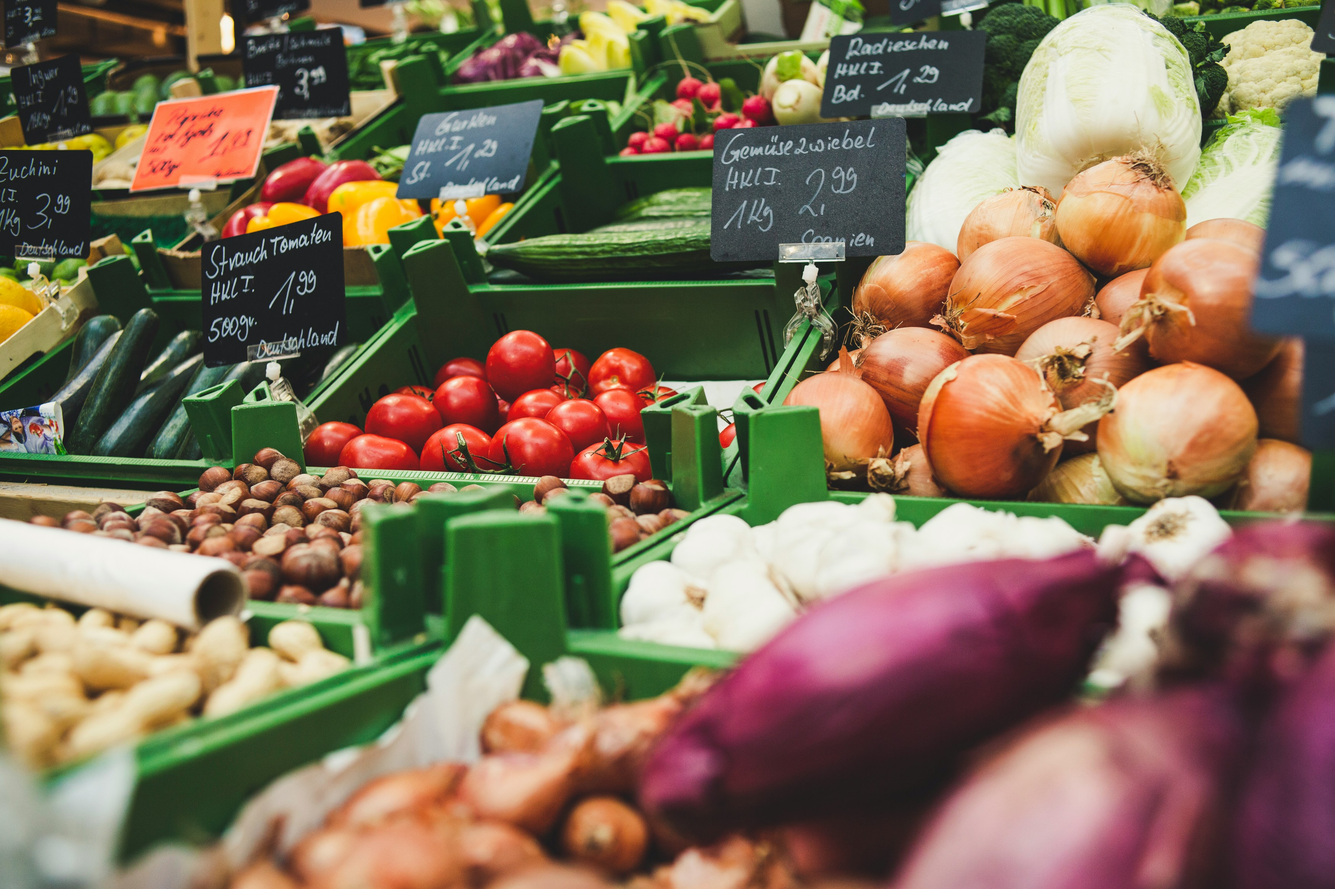
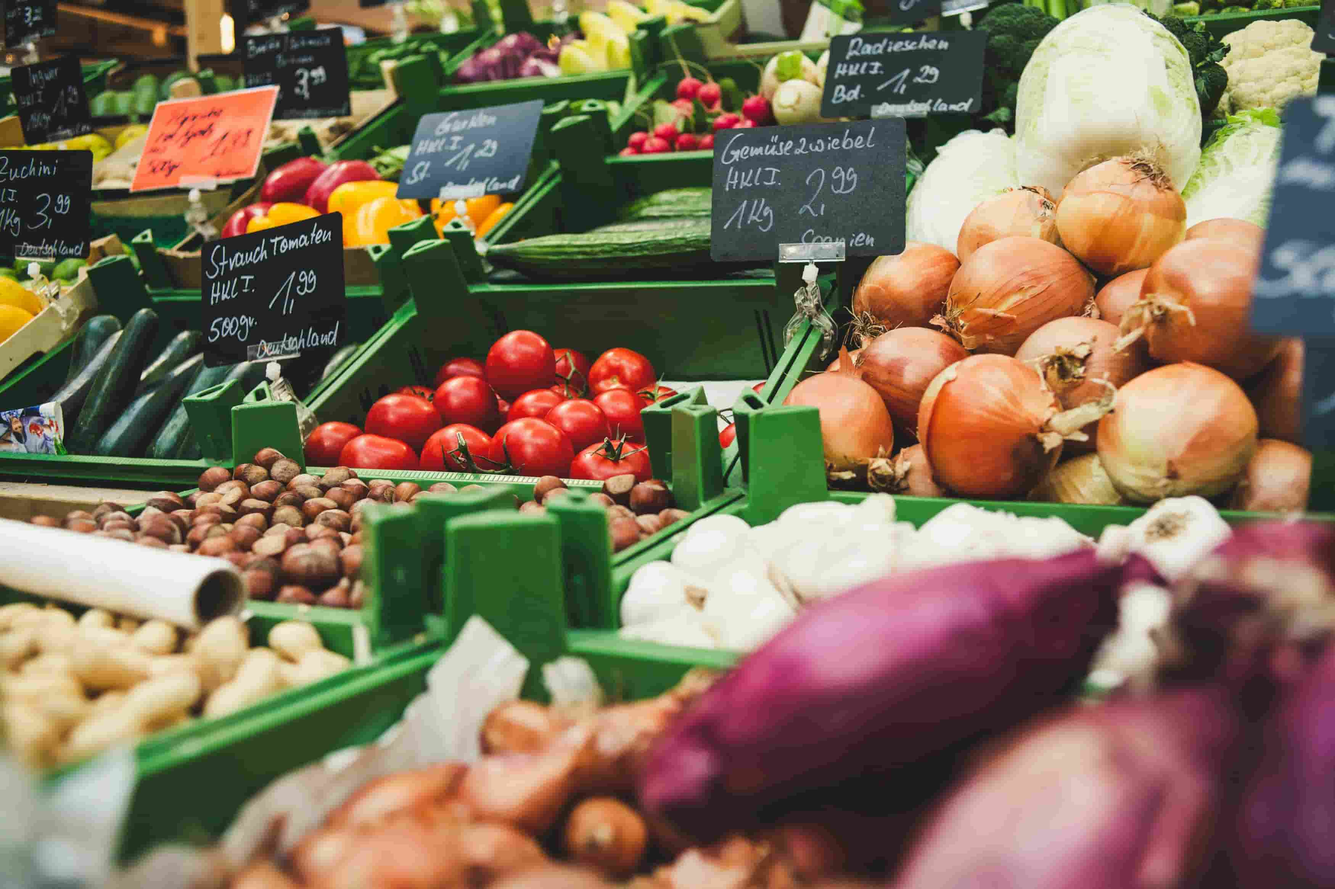
Re-upload images compressed for web to all pages and add H1

diff --git a/style.css b/style.css
@@ -82,7 +82,7 @@ header{
 }
 /* Hero Section */
 .hero{
-    background-image: url(images/manel-sean-Rl_K7Z-N5ZQ-unsplash.png);
+    background-image: url(images/manel-sean-Rl_K7Z-N5ZQ-unsplash.jpg);
     background-position: center;
     background-repeat: no-repeat;
     background-size: cover;
@@ -91,7 +91,7 @@ header{
     margin: 0;
     
 }
-.hero h2{
+.hero h1{
     color: white;
     font-size: 6rem; 
     padding-top: 40px;
@@ -187,7 +187,7 @@ th{
 }
 /* ------------------MARKETS PAGE------------------ */
 .market-hero{
-    background-image: url(images/manel-sean-Rl_K7Z-N5ZQ-unsplash.png);
+    background-image: url(images/manel-sean-Rl_K7Z-N5ZQ-unsplash.jpg);
     background-position: center;
     background-repeat: no-repeat;
     background-size: cover;
@@ -196,7 +196,7 @@ th{
     margin: 0;
     margin-top: -50px;
 }
-.market-hero h2{
+.market-hero h1{
     color: white;
     font-size: 6rem; 
     padding-top: 80px;
@@ -367,4 +367,5 @@ iframe{
         margin-bottom: 20px;
         width: 30vw;
     }
+
   }

diff --git a/about.html b/about.html
@@ -36,7 +36,7 @@
     </header>
 <section class="aboutus">
   <div class="market-hero">
-    <h2>About Us</h2>
+    <h1>About Us</h1>
 </div>
   <p>The Comox Valley Farmers’ Market Association in a not for profit society that has been bringing local food to local folks since 1992. Over the last twenty-five plus years we have grown from a seasonal Saturday market with a dozen vendors selling product off the tailgate of their pickup truck to a year-round Saturday market and two seasonal markets with over one hundred vendors selling a wide array of products that are grown, made, baked, raised or wild harvested within the Comox Valley and Strathcona Regional District.</p>
 </section>

diff --git a/index.html b/index.html
@@ -38,7 +38,7 @@
     <section>
       <div class="hero">
                 <!-- Written by ChatGPT -->
-        <h2>"Cultivating goodness one stall at a time"</h2>
+        <h1>"Cultivating goodness one stall at a time"</h1>
         <a href="markets.html">Find a Market</a>
       </div>
     </section>

diff --git a/markets.html b/markets.html
@@ -35,7 +35,7 @@
       </div>
       <section>
         <div class="market-hero">
-            <h2>Find a Market</h2>
+            <h1>Find a Market</h1>
         </div>
 <!-- Cards Section -->
 <section>
